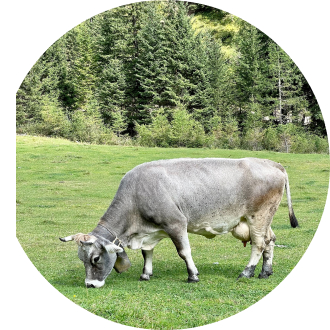
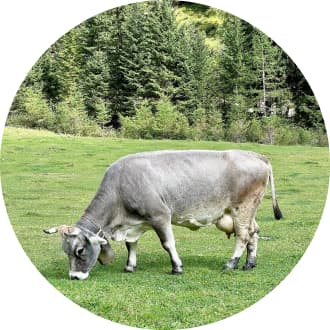
commit - section- about
1) Додані картинки до секції about;
2) Секція about майже завершена;
3) html для модалки з відео та франшиза.

diff --git a/src/sass/partials/_about.scss b/src/sass/partials/_about.scss
@@ -1,0 +1,262 @@
+// .about {
+//     display: flex;
+//     flex-direction: column;
+//     justify-content: center;
+//   }
+  
+.about-full-container {
+    @media screen and (max-width: 768px){
+    flex-direction: column;
+    align-items: center;
+    display: flex;
+}
+}
+
+.all-under-title{
+    background-color: red
+    ;
+    // @media screen and (min-width: 768px) {
+    //     display: flex;
+    //     }
+}
+
+
+
+.titles-zone {
+  display: flex;
+  align-items: center;
+  flex-direction: column;
+  margin-bottom: 32px;
+  @media screen and (min-width: 768px) {
+    margin-bottom: 72px;
+  }
+
+  @media screen and (min-width: 1200px) {
+    margin-bottom: 82px;
+  }
+}
+
+.about__lable {
+  font-weight: 700;
+  font-size: 18px;
+  line-height: 1.22;
+  text-transform: uppercase;
+  color: getColor('secondary-text');
+//   text-align: center;
+  margin-bottom: 12px;
+
+  @media screen and (min-width: 768px) {
+    font-weight: 800;
+    font-size: 22px;
+    line-height: 1.22;
+    /* identical to box height */
+
+
+  }
+
+  @media screen and (min-width: 1200px) {
+    font-weight: 800;
+    font-size: 30px;
+    line-height: 1.23;
+    /* identical to box height */
+
+
+  }
+}
+
+.about__title {
+      max-width: 200px;
+//   margin-left: auto;
+//   margin-right: auto;
+  font-family: 'Seymour One';
+  font-style: normal;
+  font-size: 30px;
+  line-height: 1.26;
+  text-align: center;
+  text-transform: uppercase;
+  color: getColor('secondary-text');
+  
+
+  @media screen and (min-width: 768px) {
+    max-width: 454px;
+    font-size: 34px;
+line-height: 1.26;
+/* identical to box height */
+
+text-align: center;
+letter-spacing: 0.06em;
+text-transform: uppercase;
+  }
+
+  @media screen and (min-width: 1200px) {
+    max-width: 481px;
+    font-size: 36px;
+line-height: 1.25;
+text-align: center;
+letter-spacing: 0.06em;
+text-transform: uppercase;
+
+  }
+}
+
+.block-about {
+  display: flex;
+  flex-direction: column;
+  justify-content: center;
+  align-items: center;
+  margin-top: 62px;
+  
+
+  @media screen and (min-width: 768px) {
+    display: inline-block;
+    margin-top: 0px;
+    align-items: start;
+  }
+
+  @media screen and (min-width: 1200px) {
+    display: inline-block;
+    margin-top: 0px;
+    align-items: start;margin-bottom:86px;
+  }
+}
+
+.block-about__paragraph {
+  max-width: 220px;
+  margin-bottom: 4px;
+  font-weight: 400;
+  font-size: 12px;
+  line-height: 1.76;
+  text-align: center;
+  color: getColor('secondary-text');
+ 
+
+  @media screen and (min-width: 768px) {
+    margin-bottom: 8px;
+    max-width: 334px;
+    width: 334;
+    text-align: left
+  }
+
+  @media screen and (min-width: 1200px) {
+    margin-bottom: 8px;
+    font-size: 14px;
+    line-height: 1.92;
+    /* or 27px */
+    max-width: 463px;
+    width: 463px;
+    text-align: left
+  }
+}
+
+.pre-last-paragraph{margin-bottom: 0;
+    @media screen and (min-width: 768px){
+    margin-bottom: 8px;
+    }
+}
+
+.last-paragraph {
+    position: absolute;
+  opacity: 0;
+
+  @media screen and (min-width: 768px) {
+    position: static;
+    opacity: 1;
+    margin-bottom: 0;
+  }
+}
+
+// кнопка
+.block-about__button {
+  margin-top: 10px;
+  width: 164px;
+  height: 42px;
+
+  @media screen and (min-width: 768px){
+    margin-top: 32px;
+    margin-bottom: 20px;
+  }
+
+  @media screen and (min-width: 1200px){
+    margin-top: 54px;
+    margin-bottom: 86px;
+  }
+  }
+
+
+.picture-zone{
+    display: inline-block;
+    @media screen and (min-width: 768px) {margin-right: 35px;
+        
+    }
+
+    @media screen and (min-width: 1200px) {margin-right: 109px;
+
+    }
+}
+//   .picture-zone {
+
+//     width: 279px;
+//     height: 278px;
+
+//     margin-left: auto;
+//     margin-right: auto;
+  
+  
+//       left: -180px;
+//       bottom: 8px;
+//     }
+  
+//     @media screen and (min-width: 1200px) {
+//       position: relative;
+//      left: -330px;
+//      bottom: 120px;
+//   }
+// }
+
+  .picture-zone__orange-background {
+    position: relative;
+    width: 279px;
+    height: 278px;
+    background-color: rgba(248, 210, 78, 0.7);
+    box-shadow: 0px 8px 30px rgba(153, 114, 23, 0.25);
+    border-radius: 50%;
+    
+    @media screen and (min-width: 768px) {
+
+      width: 330px;
+      height: 330px;
+    }
+  
+    @media screen and (min-width: 1200px) {
+
+      width: 490px;
+      height: 490px;
+    }
+  }
+
+.picture-zone__about {
+    position: absolute;
+    top: 22px;
+    width: 279px;
+    height: 278px;
+  border-radius: 50%;
+
+  @media screen and (min-width: 768px) {
+    position: absolute;
+    width: 330px;
+    height:330px;
+  }
+
+  @media screen and (min-width: 1200px) {
+    position: absolute;
+    width: 490px;
+    height:490px;
+  }
+}
+
+
+
+
+
+
+

diff --git a/src/Partials/about.html b/src/Partials/about.html
@@ -1,0 +1,54 @@
+<section class="about section">
+  <div class="container about-full-container">
+    <!-- Лейбл заголовка -->
+    <div class="titles-zone">
+      <strong class="about__lable">tradition and love</strong>
+      <h2 class="about__title">how it's made</h2>
+    </div>
+    <div class="all-under-title">
+      
+      <div class="picture-zone">
+        <div class="picture-zone__orange-background"></div>
+        <img
+          class="picture-zone__about"
+          srcset="
+            ./images/about/img_279.jpg 270w,
+            ./images/about/img_330.jpg 354w,
+            ./images/about/img_490.jpg 450w,
+            ./images/about/img_558.jpg 540w,
+            ./images/about/img_660.jpg 708w,
+            ./images/about/img_980.jpg 900w
+          "
+          sizes="(min-width: 1200px) 270px, (min-width: 768px) 354px, (min-width: 480px) 450px, 100vw"
+          src="./images/about/img_279.jpg"
+          alt="cow"
+          width="279"
+          height="278"
+        />
+      </div>
+      <div class="block-about">
+        <p class="block-about__paragraph">
+          Ice is a place where you will become not only a little happier, but also
+          healthier. Health is the main value for us, and we follow it when
+          creating our handmade desserts.
+        </p>
+        <p class="block-about__paragraph pre-last-paragraph">
+          We use traditional recipes and 100% natural ingredients. Our products
+          are so natural that they can be given to children from the age of three
+          years. Sweets lovers can expect 55 types of ice cream, 15 types of
+          coffee and 23 milkshakes.
+        </p>
+        <p class="block-about__paragraph last-paragraph">
+          This is enough to choose ice cream and coffee for any mood!
+        </p>
+        <button class="block-about__button">Read more ></button>
+        <p class="block-about__paragraph pre-last-paragraph">
+          We use traditional recipes and 100% natural ingredients. Our products
+          are so natural that they can be given to children from the age of three
+          years. Sweets lovers can expect 55 types of ice cream, 15 types of
+          coffee and 23 milkshakes.
+        </p>
+      </div>
+    </div>
+  </div>
+</section>

diff --git a/src/Partials/modal-franchise.html b/src/Partials/modal-franchise.html
@@ -1,0 +1,26 @@
+<div class="backdrop is-hidden franchise-modal" data-modal>
+    <div class="modal franchise-modal-zone">
+      <p class="franchise-modal__title">Thank you for your interest in owning an Ice Cream shop</p>
+      <p class="franchise-modal__description">Due to the overwhelming volume of franchise requests we are not accepting new franchisee applications at this time. Once the application process resumes, we will contact you for further information. Please fill out the contact information below and we will reach out for additional information. We appreciate your patience.</p>
+      <form class="franchise-modal-form" name="callback-form">
+        <div class="franchise-modal-form__input">
+          <input class="franchise-modal-form__input-element" type="text" name="name" id="name" placeholder="Name"/>
+        </div>
+        <div class="franchise-modal-form__input">
+          <input class="franchise-modal-form__input-element" type="tel" name="phone-number" id="phone-number" placeholder="Phone"/>
+        </div>
+        <div class="franchise-modal-form__input">
+          <input class="franchise-modal-form__input-element" type="email" name="e-mail" id="e-mail" placeholder="Email"/>
+        </div>
+        <div class="franchise-modal-form__input">
+          <input class="franchise-modal-form__input-element" type="text" name="comment" id="comment" placeholder="Comment"/>
+        </div>
+        <button class="franchise-modal__button-submit" type="submit">Submit</button></form>
+      <button class="modal__button-close" data-modal-close>
+        <svg class="modal__svg-close" width="20px" height="20px">
+          <use href="./images/icons.svg#icon-close"></use>
+        </svg>
+      </button>
+    </div>
+</div>
+

diff --git a/src/Partials/modal-about.html b/src/Partials/modal-about.html
@@ -1,0 +1,12 @@
+<div class="backdrop is-hidden about-modal" data-modal>
+    <div class="modal about-modal__zone">
+      <p class="about-modal__title">How it’s made?</p>
+      <iframe class="about__video"  src="https://www.youtube.com/embed/M-h2v94eeAc" title="YouTube video player" frameborder="0" allow="accelerometer; autoplay; clipboard-write; encrypted-media; gyroscope; picture-in-picture" allowfullscreen></iframe>
+      <p class="about__description">Lorem ipsum dolor sit amet, consectetur adipiscing elit, sed do eiusmod tempor incididunt ut labore et Lorem ipsum dolor sit amet, consectetur adipiscing elit, sed do eiusmod tempor incididunt ut labore et</p>
+      <button class="modal__button-close" data-modal-close>
+        <svg class="modal__svg-close" width="20px" height="20px">
+          <use href="./images/icons.svg#icon-close"></use>
+        </svg>
+      </button>
+    </div>
+</div>

diff --git a/src/index.html b/src/index.html
@@ -13,6 +13,7 @@
   </head>
   <body>
     <!-- ❗❗❗ Add partials for every page below -->
+    <include src="./Partials/about.html"></include>
     <include src="./Partials/footer.html"></include>
   </body>
 </html>

diff --git a/src/sass/index.scss b/src/sass/index.scss
@@ -2,4 +2,8 @@
 
 @import 'utils/variables';
 @import 'utils/general-styles';
+@import './partials/about';
+@import './partials/modal-how-its-made';
+@import './partials/modal-franchise';
 @import './partials/footer';
+
